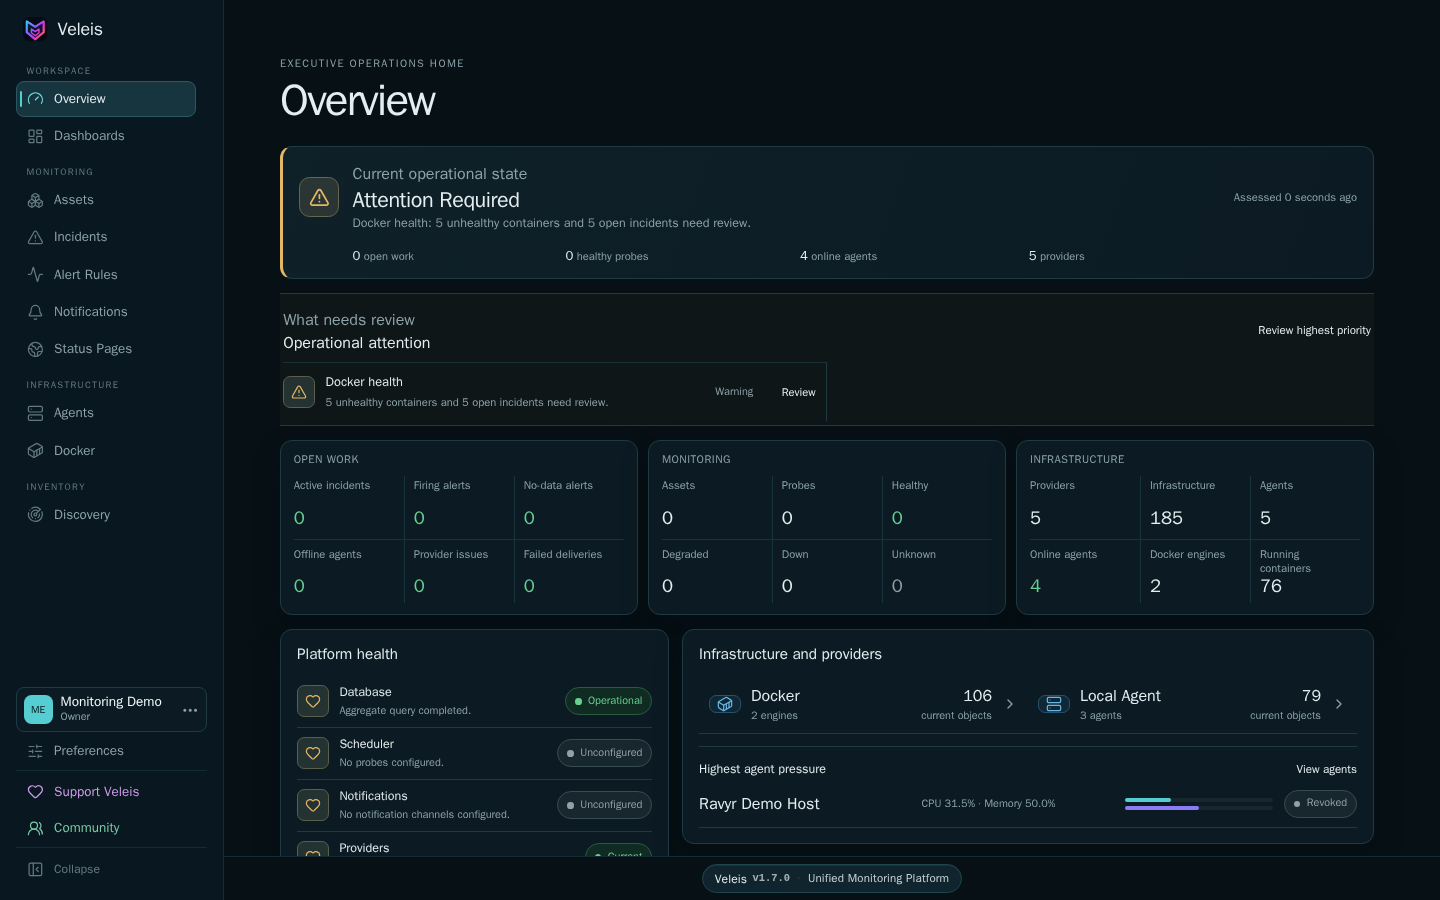
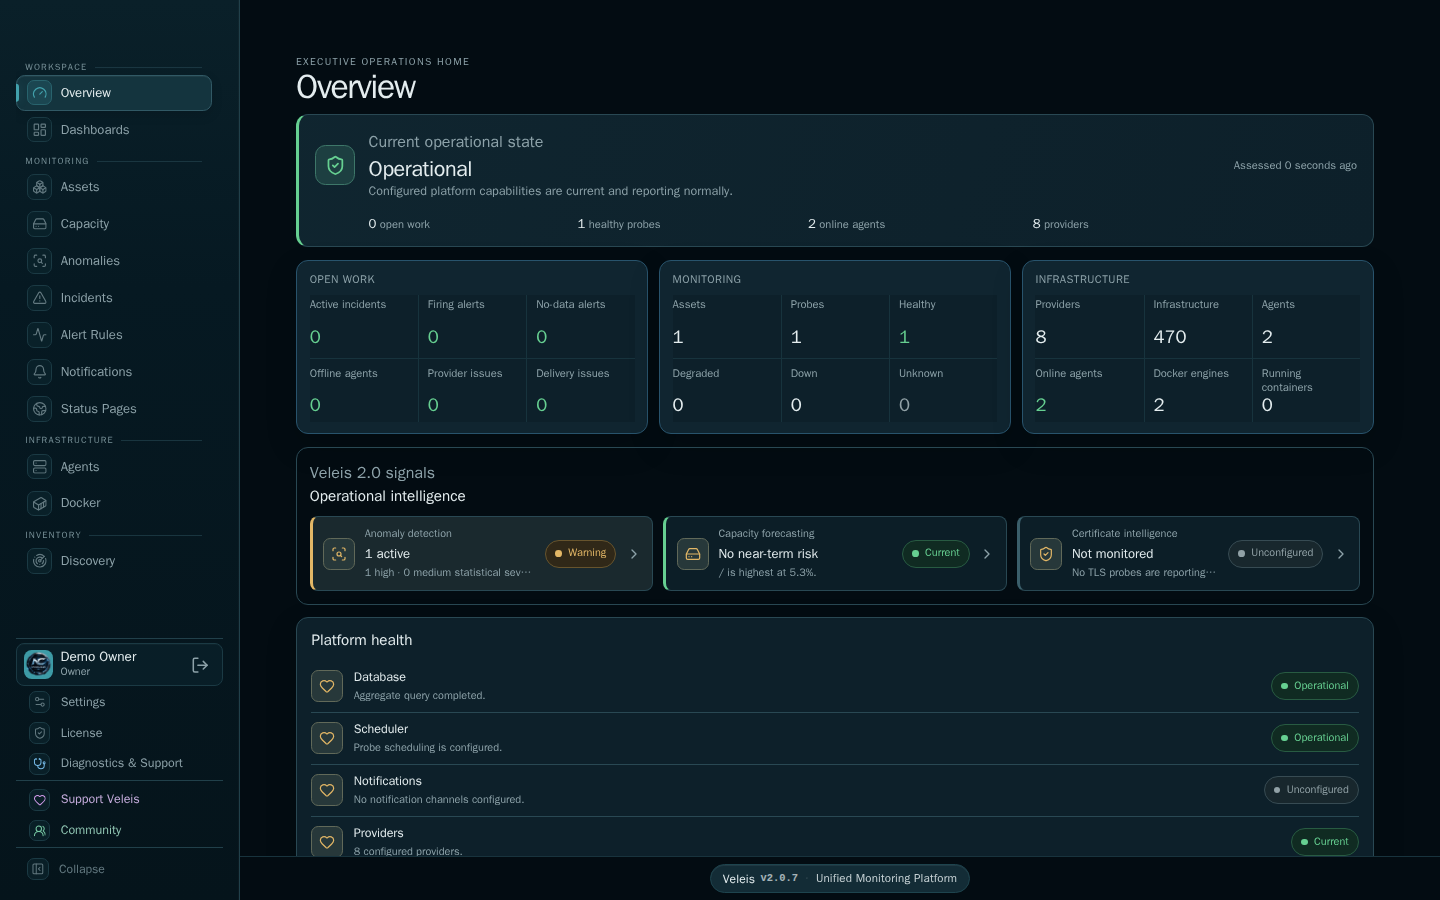
release: publish Veleis 2.0.7 distribution metadata and artwork

diff --git a/README.md b/README.md
@@ -4,7 +4,7 @@
 
 ![Veleis — Unified Monitoring Platform](assets/veleis-social-preview.svg)
 
-[![Current release](https://img.shields.io/badge/release-v2.0.6-14b8a6)](https://github.com/NyxCloudRO/Veleis/releases/tag/v2.0.6)
+[![Current release](https://img.shields.io/badge/release-v2.0.7-14b8a6)](https://github.com/NyxCloudRO/Veleis/releases/tag/v2.0.7)
 [![Docker pulls](https://nyxcloud.ro/veleis/data/docker-pulls.svg)](https://hub.docker.com/r/nyxmael/veleis)
 [![Platform](https://img.shields.io/badge/platform-linux%2Famd64-334155)](docs/SYSTEM-REQUIREMENTS.md)
 [![Hosts](https://img.shields.io/badge/tested-5_amd64_host_releases-334155)](docs/SYSTEM-REQUIREMENTS.md)
@@ -21,7 +21,7 @@ current state and history locally under your control.
 > Docker, Proxmox, agents, and Discovery are intentionally observational—there
 > are no VM/container start, stop, reboot, remediation, or remote-shell actions.
 
-Current stable release: **Veleis 2.0.6** · Schema 54 · linux/amd64
+Current stable release: **Veleis 2.0.7** · Schema 54 · linux/amd64
 
 ## Quick start
 
@@ -34,7 +34,7 @@ curl -fsSL https://raw.githubusercontent.com/NyxCloudRO/Veleis/main/install.sh |
 The installer detects root or ordinary sudo access, installs missing Docker
 components from the operating-system repositories, creates `/opt/veleis`,
 generates unique secrets and a self-signed TLS certificate, pulls the immutable
-`nyxmael/veleis:2.0.6` image, detects effective cgroup memory, provisions a
+`nyxmael/veleis:2.0.7` image, detects effective cgroup memory, provisions a
 bounded PostgreSQL/TimescaleDB profile, applies schema migrations,
 and waits for HTTPS readiness.
 
@@ -49,7 +49,7 @@ then create the first Owner account. There are no default credentials.
 
 ## Supported platforms
 
-Veleis 2.0.6 is currently validated on the following amd64 platforms:
+Veleis 2.0.7 is currently validated on the following amd64 platforms:
 
 | Distribution | Version       | Status    |
 | ------------ | ------------- | --------- |
@@ -175,16 +175,10 @@ See the [complete feature inventory](docs/FEATURES.md).
 
 ## Product preview
 
-Screenshots use isolated demonstration data created specifically for public
-documentation.
+This 2.0.7 preview shows the accepted DEV interface. Operational values reflect
+the acceptance environment and may differ from your installation.
 
-| Overview                                                                               | Discovery                                                                                 |
-| -------------------------------------------------------------------------------------- | ----------------------------------------------------------------------------------------- |
-| [![Veleis Overview](assets/screenshots/overview.png)](assets/screenshots/overview.png) | [![Veleis Discovery](assets/screenshots/discovery.png)](assets/screenshots/discovery.png) |
-
-| Dashboards                                                                                   | Security                                                                               |
-| -------------------------------------------------------------------------------------------- | -------------------------------------------------------------------------------------- |
-| [![Veleis Dashboards](assets/screenshots/dashboards.png)](assets/screenshots/dashboards.png) | [![Veleis Security](assets/screenshots/security.png)](assets/screenshots/security.png) |
+[![Veleis 2.0.7 Overview](assets/screenshots/overview.png)](assets/screenshots/overview.png)
 
 ## Requirements
 
@@ -221,9 +215,9 @@ sudo veleis logs --tail=200 veleis
 sudo veleis backup
 ```
 
-Existing 1.7.1 and 1.8.0 through 1.8.12 installations can upgrade with
+Existing 1.7.1, 1.8.0 through 1.8.12, and 2.0.6 installations can upgrade with
 `sudo veleis upgrade`; the exact version alternative is
-`sudo veleis upgrade 2.0.6`. Existing 2.0.0 through 2.0.5 installations
+`sudo veleis upgrade 2.0.7`. Existing 2.0.0 through 2.0.5 installations
 must first refresh the lifecycle tooling as documented below. Installations created before
 the lifecycle command was published can add it with the bootstrap documented in
 [Installation](docs/INSTALLATION.md).

diff --git a/docs/RELEASES.md b/docs/RELEASES.md
@@ -4,20 +4,20 @@
 
 ## Current stable release
 
-Veleis **2.0.6** is the current stable release.
+Veleis **2.0.7** is the current stable release.
 
 | Component                  | Release identity                 |
 | -------------------------- | -------------------------------- |
-| Application                | `2.0.6`                          |
-| Git tag and GitHub Release | `v2.0.6`                         |
-| Installer target           | `docker.io/nyxmael/veleis:2.0.6` |
+| Application                | `2.0.7`                          |
+| Git tag and GitHub Release | `v2.0.7`                         |
+| Installer target           | `docker.io/nyxmael/veleis:2.0.7` |
 | Docker manifest            | Recorded in `release.json`       |
 | Schema                     | 54                               |
 | Backup format              | 1                                |
 
 All prior releases remain immutable at their original Docker digests and
 GitHub releases. Upgrades from 1.7.1, 1.8.0 through 1.8.12, or 2.0.0 through
-2.0.5 to 2.0.6 use a mandatory pre-upgrade backup. Schema 54 is current;
+2.0.6 to 2.0.7 use a mandatory pre-upgrade backup. Schema 54 is current;
 upgrades apply every required migration through schema 54. Sources on 2.0.0
 through 2.0.5 refresh the lifecycle tool before upgrading.
 
@@ -25,15 +25,16 @@ through 2.0.5 refresh the lifecycle tool before upgrading.
 
 | Version | Status                                          |
 | ------- | ----------------------------------------------- |
-| 2.0.6   | Current public stable release                   |
-| 2.0.5   | Lifecycle-gated upgrade source for 2.0.6        |
-| 2.0.4   | Lifecycle-gated upgrade source for 2.0.6        |
-| 2.0.3   | Lifecycle-gated upgrade source for 2.0.6        |
-| 2.0.2   | Lifecycle-gated upgrade source for 2.0.6        |
-| 2.0.1   | Lifecycle-gated upgrade source for 2.0.6        |
-| 2.0.0   | Lifecycle-gated upgrade source for 2.0.6        |
-| 1.8.x   | Supported upgrade source line for 2.0.6         |
-| 1.7.1   | Supported upgrade source for 2.0.6              |
+| 2.0.7   | Current public stable release                   |
+| 2.0.6   | Supported direct upgrade source for 2.0.7       |
+| 2.0.5   | Lifecycle-gated upgrade source for 2.0.7        |
+| 2.0.4   | Lifecycle-gated upgrade source for 2.0.7        |
+| 2.0.3   | Lifecycle-gated upgrade source for 2.0.7        |
+| 2.0.2   | Lifecycle-gated upgrade source for 2.0.7        |
+| 2.0.1   | Lifecycle-gated upgrade source for 2.0.7        |
+| 2.0.0   | Lifecycle-gated upgrade source for 2.0.7        |
+| 1.8.x   | Supported upgrade source line for 2.0.7         |
+| 1.7.1   | Supported upgrade source for 2.0.7              |
 | 1.7.0   | Prior immutable release; upgrade to 1.7.1 first |
 | <1.7    | Pre-public development; no public support       |
 
@@ -43,11 +44,11 @@ supported.
 
 ## Version and channel policy
 
-- Exact version tags such as `2.0.0` through `2.0.6` are immutable.
+- Exact version tags such as `2.0.0` through `2.0.7` are immutable.
 - Minor tags such as `1.8` move only to the newest accepted stable patch in that
   minor line.
 - `latest` moves only to the newest accepted stable public release.
-- Git tags use `v` (`v2.0.6`); application and Docker versions do not.
+- Git tags use `v` (`v2.0.7`); application and Docker versions do not.
 
 See [Docker image and tag policy](DOCKER.md).
 

diff --git a/docs/UPGRADING.md b/docs/UPGRADING.md
@@ -11,7 +11,7 @@ sudo veleis upgrade
 An exact target may be requested when it is the published stable release:
 
 ```bash
-sudo veleis upgrade 2.0.6
+sudo veleis upgrade 2.0.7
 ```
 
 Veleis retrieves public structured release metadata over HTTPS and validates
@@ -28,8 +28,8 @@ remains internally version-consistent and directly restorable.
 
 ## Current release state
 
-Veleis 2.0.6 is the current stable release. Veleis 1.7.1 and 1.8.0 through
-1.8.12 are explicit direct upgrade sources. Veleis 2.0.0 through 2.0.5 are
+Veleis 2.0.7 is the current stable release. Veleis 1.7.1, 1.8.0 through
+1.8.12, and 2.0.6 are explicit direct upgrade sources. Veleis 2.0.0 through 2.0.5 are
 lifecycle-gated sources: refresh the lifecycle tooling before the upgrade so
 the schema-54 compatibility contract and current
 PostgreSQL memory helper are installed:
@@ -38,11 +38,11 @@ PostgreSQL memory helper are installed:
 curl -fsSL https://raw.githubusercontent.com/NyxCloudRO/Veleis/main/install-lifecycle.sh | bash
 sudo veleis status
 sudo veleis postgres-memory status
-sudo veleis upgrade 2.0.6
+sudo veleis upgrade 2.0.7
 ```
 
-The exact target form is `sudo veleis upgrade 2.0.6`. Schema 54 is current.
-The 2.0.5 and 2.0.4 paths keep schema 54 and replace only the application
+The exact target form is `sudo veleis upgrade 2.0.7`. Schema 54 is current.
+The 2.0.6, 2.0.5, and 2.0.4 paths keep schema 54 and replace only the application
 image. The 2.0.3 path applies migration 54; earlier supported sources advance through
 every required migration through schema 54 in order.
 Users and sessions, tokens, assets, probes/history, alerts/incidents,
@@ -51,13 +51,13 @@ Ravyr enrollment/policy, retention, and TLS identity are preserved. Existing
 TLS probes begin Certificate Intelligence history on their next completed
 handshake; pre-upgrade observations cannot be reconstructed.
 
-On 2.0.6, `sudo veleis upgrade` and `sudo veleis upgrade 2.0.6` are safe
+On 2.0.7, `sudo veleis upgrade` and `sudo veleis upgrade 2.0.7` are safe
 no-ops: they create no backup, pull no image, run no migration, and restart no
-service. A downgrade from 2.0.6 remains rejected.
+service. A downgrade from 2.0.7 remains rejected.
 
 ## PostgreSQL memory profile
 
-New 2.0.6 installations select a managed database profile from the effective
+New 2.0.7 installations select a managed database profile from the effective
 cgroup or host memory limit. One GiB is the hard minimum and two GiB or more is
 recommended. Upgrades automatically converge fingerprinted Veleis-managed
 profiles and exact historical Veleis Compose definitions. Unknown or

diff --git a/docs/FAQ.md b/docs/FAQ.md
@@ -34,7 +34,7 @@ Docker socket access is still host-sensitive and should be restricted.
 
 ## Can Veleis change an SNMP device?
 
-No. Veleis 2.0.6 performs one bounded scalar numeric-OID `GET` per probe
+No. Veleis 2.0.7 performs one bounded scalar numeric-OID `GET` per probe
 attempt. It has no SNMP `SET`, WALK, GETBULK, trap, discovery, or MIB-name
 resolution capability. See [SNMP monitoring](SNMP.md).
 
@@ -53,11 +53,11 @@ survive routine restart but are not, by themselves, a backup.
 
 ## Can I install on ARM?
 
-Not in 2.0.6. The accepted public image is linux/amd64 only.
+Not in 2.0.7. The accepted public image is linux/amd64 only.
 
 ## Which Linux releases are supported?
 
-Veleis 2.0.6 installation is supported and validated on Ubuntu 24.04 LTS,
+Veleis 2.0.7 installation is supported and validated on Ubuntu 24.04 LTS,
 Ubuntu 25.04, Ubuntu 26.04 LTS, Debian 12 (Bookworm), and Debian 13 (Trixie),
 on amd64/x86_64. Other releases, derivatives, and architectures are not part
 of the supported installation matrix.
@@ -72,9 +72,9 @@ only the external targets/providers/notification services you configure.
 
 Use `sudo veleis upgrade`. Veleis 1.7.1, 1.8.0, 1.8.1, 1.8.2, 1.8.3, 1.8.4,
 1.8.5, 1.8.6, 1.8.7, 1.8.8, 1.8.9, 1.8.10, and 1.8.11 through 1.8.12 upgrade
-directly to 2.0.6. Veleis 2.0.0 through 2.0.5 use the documented
+directly to 2.0.7. Veleis 2.0.0 through 2.0.5 use the documented
 lifecycle-tool refresh first. Every path uses a mandatory backup and
-immutable-digest verification. On 2.0.6, the same command is a no-op. Targets must explicitly
+immutable-digest verification. On 2.0.7, the same command is a no-op. Targets must explicitly
 accept the installed source version and pass metadata, schema, digest, backup,
 migration, and readiness checks. See [Upgrading](UPGRADING.md).
 
@@ -96,7 +96,7 @@ cover the new host address.
 
 The application can consume custom TLS material internally, but public-safe
 replacement/reverse-proxy operations have not completed release acceptance.
-The supported 2.0.6 installer uses its generated certificate.
+The supported 2.0.7 installer uses its generated certificate.
 
 ## What happens to monitoring history?
 

diff --git a/CHANGELOG.md b/CHANGELOG.md
@@ -5,6 +5,41 @@ versioning; the corresponding Git tag uses a `v` prefix.
 
 ## [Unreleased]
 
+## [2.0.7] - 2026-09-23
+
+### Performance and reliability
+
+- Reduced redundant requests across operational dashboards, Discovery, and
+  agent identity views with bounded freshness and explicit mutation refresh.
+- Bounded Discovery overview/history reads, provider duration averages, and
+  recent per-agent event retrieval to keep large retained histories responsive.
+- Distinguished invalid agent credentials from temporary database failures:
+  genuine rejection remains HTTP 401, while infrastructure failures return a
+  retryable HTTP 503. Credential evidence writes are limited to at most once
+  per minute per active credential.
+
+### Interface
+
+- Reworked the compact shared sidebar hierarchy, icon zones, selected states,
+  bottom identities, collapsed mode, and responsive behavior.
+- Improved Managed Hosts controls, Diagnostics & Support navigation and full
+  label, and compact Agent Actions with keyboard/focus behavior.
+- Refined dark and light surfaces, panels, controls, and visual separation.
+- Removed the visible top sidebar wordmark while preserving its spacing and
+  introduced the compact Veleis V browser favicon.
+
+### Upgrade and compatibility
+
+- Veleis 2.0.7 keeps schema 54. Upgrading from 2.0.6 requires no database
+  migration or volume replacement; the normal upgrade path preserves existing
+  monitoring history, agents, credentials, configuration, and user state.
+- Create and verify a complete pre-upgrade backup before running
+  `sudo veleis upgrade 2.0.7`.
+- The signed Ravyr 1.8.7 agent remains the recommended bundled version.
+- Docker image: `docker.io/nyxmael/veleis:2.0.7`.
+- Immutable manifest digest is recorded in `release.json`.
+- Release: <https://github.com/NyxCloudRO/Veleis/releases/tag/v2.0.7>.
+
 ## [2.0.6] - 2026-09-22
 
 ### Agent compatibility and lifecycle

diff --git a/docs/DOCKER.md b/docs/DOCKER.md
@@ -6,7 +6,7 @@ Official repository:
 [docker.io/nyxmael/veleis](https://hub.docker.com/r/nyxmael/veleis)
 
 ```bash
-docker pull nyxmael/veleis:2.0.6
+docker pull nyxmael/veleis:2.0.7
 ```
 
 ## Tags
@@ -36,11 +36,12 @@ docker pull nyxmael/veleis:2.0.6
 | `2.0.3`  | Immutable prior release. It will not move to another build.         | `sha256:1b8202c9c008456b2654d670c46ec2cc5004aa72556d8c1fa89d0786ec9c0723` |
 | `2.0.4`  | Immutable prior release. It will not move to another build.         | `sha256:d621916892f6f908514b3ff25b0f51b008e37670e985673a735c2e0a2072eec0` |
 | `2.0.5`  | Immutable prior release. It will not move to another build.         | `sha256:4df185a3ceee52bc57441adaa02ff4c639b22fc5abbac970ec03f62638ecc3b3` |
-| `2.0.6`  | Immutable exact current release. It will not move to another build. | `sha256:d528e2b1dd5c23e1f8477c4bf068763788e438508cfb960c137ec91454ef053a` |
-| `latest` | Floating newest accepted stable release.                            | Same as `2.0.6`                                                           |
+| `2.0.6`  | Immutable prior release. It will not move to another build.         | `sha256:d528e2b1dd5c23e1f8477c4bf068763788e438508cfb960c137ec91454ef053a` |
+| `2.0.7`  | Immutable exact current release. It will not move to another build. | `sha256:35f0e21e0087a7daecfdbc1684b8bca335b6fffee453d71d0d2748350dd7310f` |
+| `latest` | Floating newest accepted stable release.                            | Same as `2.0.7`                                                           |
 
 The `1.7` tag remains on the newest accepted 1.7 patch, and `1.8` remains on the
-newest accepted 1.8 patch. `latest` resolves to the accepted 2.0.6 image.
+newest accepted 1.8 patch. `latest` resolves to the accepted 2.0.7 image.
 Immutable prior releases remain at their original digests.
 
 Each release installer deliberately uses its immutable exact tag, not a floating

diff --git a/docs/RAVYR.md b/docs/RAVYR.md
@@ -90,7 +90,7 @@ per-host SSH action.
 Ravyr downloads the strict same-origin release manifest and candidate into
 private staging. Before activation it validates server/protocol compatibility,
 Linux/amd64, exact path, bounded size, SHA-256, Ed25519 signature, and trusted
-key ID. Veleis 2.0.6 bundles and recommends signed Ravyr 1.8.7 and retains
+key ID. Veleis 2.0.7 bundles and recommends signed Ravyr 1.8.7 and retains
 trusted key `226fc31b6ee01ca3`; unsigned metadata cannot replace it.
 
 Activation preflights disk and permissions, retains one previous binary, stages
@@ -117,7 +117,7 @@ existing SSH/configuration-management process:
 
 ```bash
 curl --fail --silent --show-error --location \
-  https://github.com/NyxCloudRO/Veleis/releases/download/v2.0.6/repair-ravyr.sh \
+  https://github.com/NyxCloudRO/Veleis/releases/download/v2.0.7/repair-ravyr.sh \
   --output /tmp/repair-ravyr.sh
[1 lines of base64/hex data omitted]
   /tmp/repair-ravyr.sh | sha256sum --check -

diff --git a/docs/BACKUP-RESTORE.md b/docs/BACKUP-RESTORE.md
@@ -44,7 +44,7 @@ deletes old backups automatically. Before copying, check capacity with `df -h`.
 After copying, verify the sidecar in its destination directory:
 
 ```bash
-sha256sum --check veleis-backup-2.0.6-YYYYMMDDTHHMMSSZ.tar.gz.sha256
+sha256sum --check veleis-backup-2.0.7-YYYYMMDDTHHMMSSZ.tar.gz.sha256
 ```
 
 ## Restore
@@ -53,7 +53,7 @@ Restore is deliberately explicit and currently requires a working Veleis
 installation at the same application version as the backup:
 
 ```bash
-sudo veleis restore /secure/path/veleis-backup-2.0.6-YYYYMMDDTHHMMSSZ.tar.gz --force
+sudo veleis restore /secure/path/veleis-backup-2.0.7-YYYYMMDDTHHMMSSZ.tar.gz --force
 ```
 
 Before changing state, the command rejects unreadable, corrupt, malformed,

diff --git a/docs/TROUBLESHOOTING.md b/docs/TROUBLESHOOTING.md
@@ -25,7 +25,7 @@ preserved at `/opt/veleis` for diagnosis.
 
 ## Unsupported operating system
 
-Error contains `unsupported operating system`. Veleis 2.0.6 is accepted only on
+Error contains `unsupported operating system`. Veleis 2.0.7 is accepted only on
 Ubuntu 24.04 LTS, Ubuntu 25.04, Ubuntu 26.04 LTS, Debian 12 (Bookworm), and
 Debian 13 (Trixie), on amd64/x86_64. Do not bypass OS detection on a production
 host; unknown Ubuntu/Debian releases and other distributions fail closed.
@@ -73,7 +73,7 @@ Check DNS, outbound HTTPS, Docker Hub reachability, proxy policy, and available
 disk space:
 
 ```bash
-sudo docker pull nyxmael/veleis:2.0.6
+sudo docker pull nyxmael/veleis:2.0.7
 sudo docker system df
 ```
 

diff --git a/docs/INSTALLATION.md b/docs/INSTALLATION.md
@@ -4,7 +4,7 @@
 
 ## Supported installation
 
-Veleis 2.0.6 supports clean installation on:
+Veleis 2.0.7 supports clean installation on:
 
 - Ubuntu 24.04 LTS, amd64 / x86_64
 - Ubuntu 25.04, amd64 / x86_64
@@ -42,7 +42,7 @@ chmod +x install-veleis.sh
 ```
 
 The maintained main-branch installer targets the exact immutable image
-`docker.io/nyxmael/veleis:2.0.6`. Earlier releases retain their original
+`docker.io/nyxmael/veleis:2.0.7`. Earlier releases retain their original
 publication-time `install.sh` and `SHA256SUMS` assets; use the maintained
 main-branch installer above for the current validated host policy.
 

diff --git a/SUPPORT.md b/SUPPORT.md
@@ -27,7 +27,7 @@ public Issue.
 
 ## Veleis Professional Support
 
-Veleis 2.0.6 integrates Professional Support status and eligible Diagnostics
+Veleis 2.0.7 integrates Professional Support status and eligible Diagnostics
 capabilities in the Diagnostics & Support workspace. These capabilities require
 a valid signed support entitlement and fail independently from monitoring.
 Veleis core monitoring remains free and continues operating when no support

diff --git a/docs/SYSTEM-REQUIREMENTS.md b/docs/SYSTEM-REQUIREMENTS.md
@@ -4,7 +4,7 @@
 
 ## Tested and supported platforms
 
-Veleis 2.0.6 installation is validated on the following host platforms:
+Veleis 2.0.7 installation is validated on the following host platforms:
 
 | Distribution | Version       | Status                |
 | ------------ | ------------- | --------------------- |
